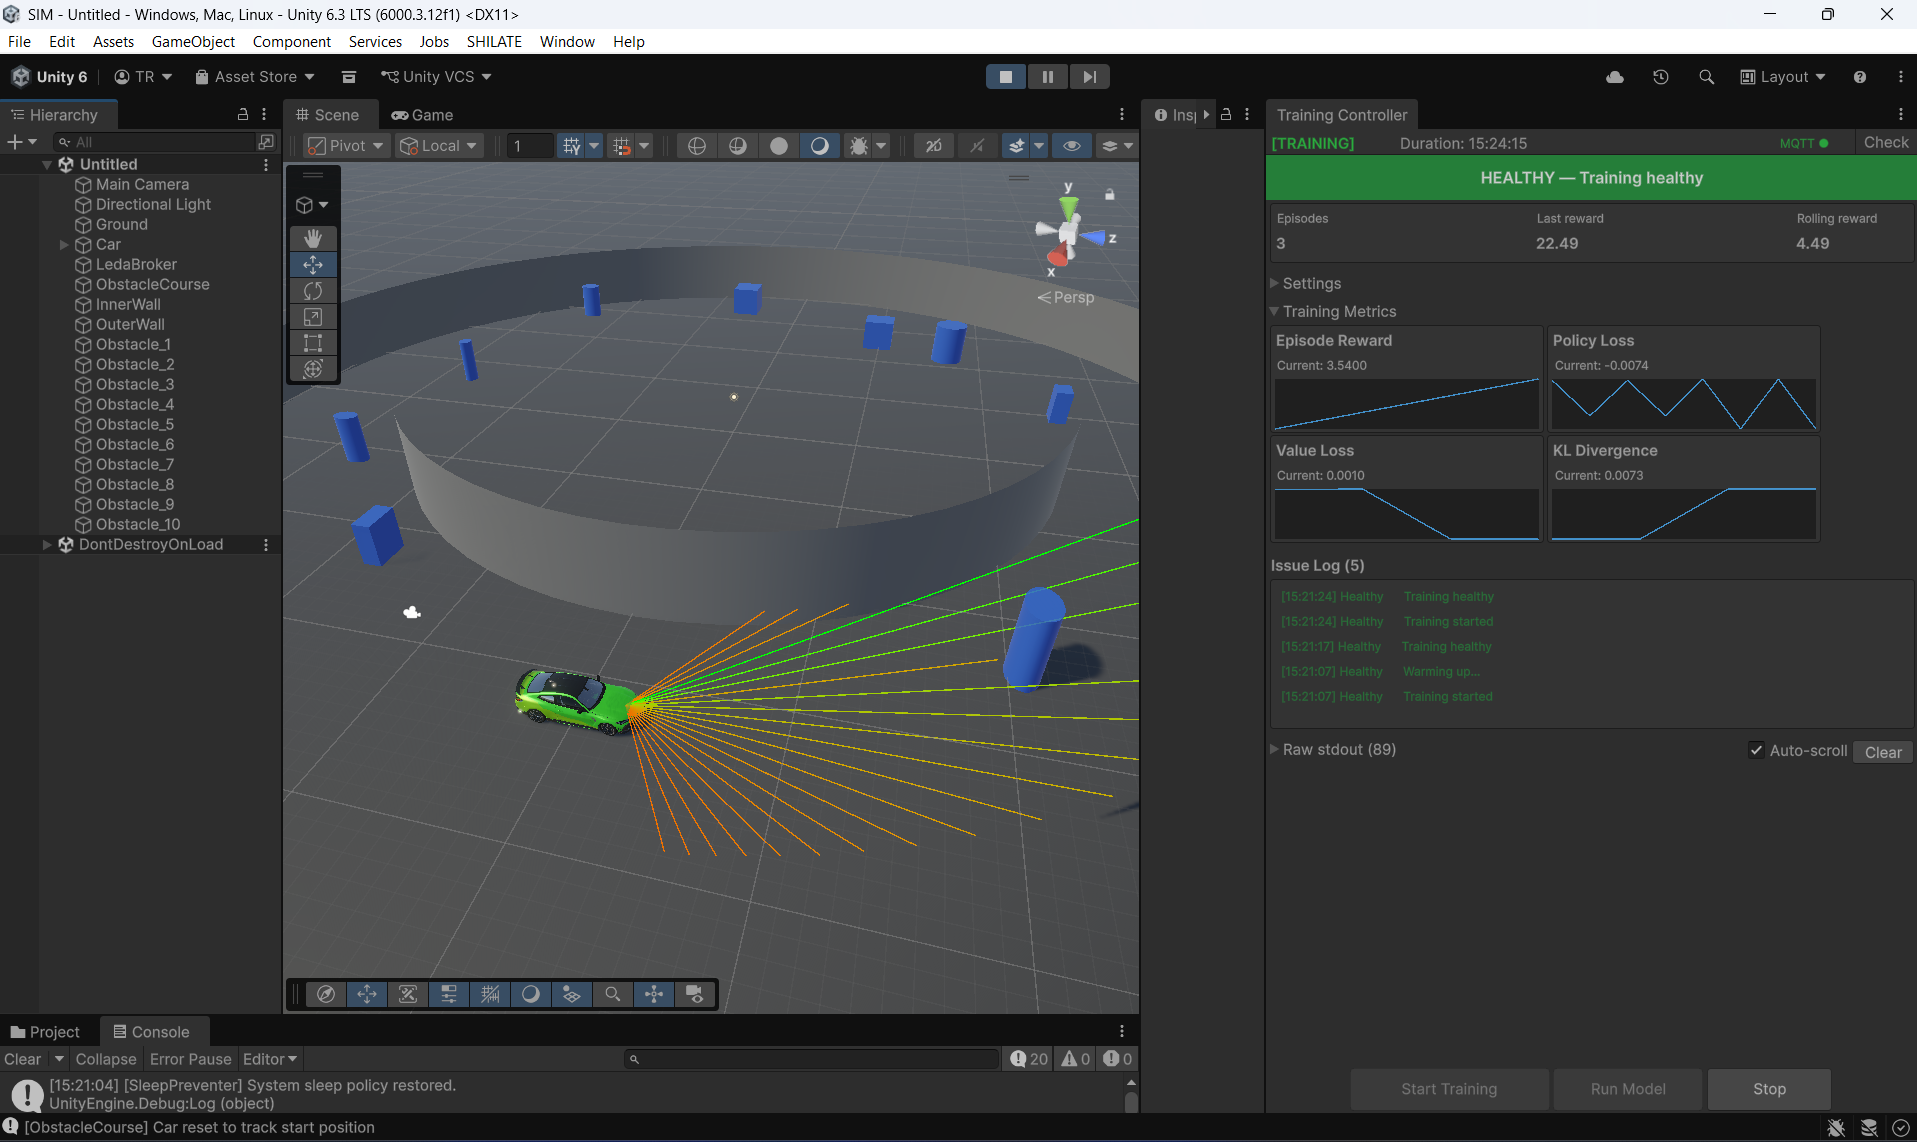
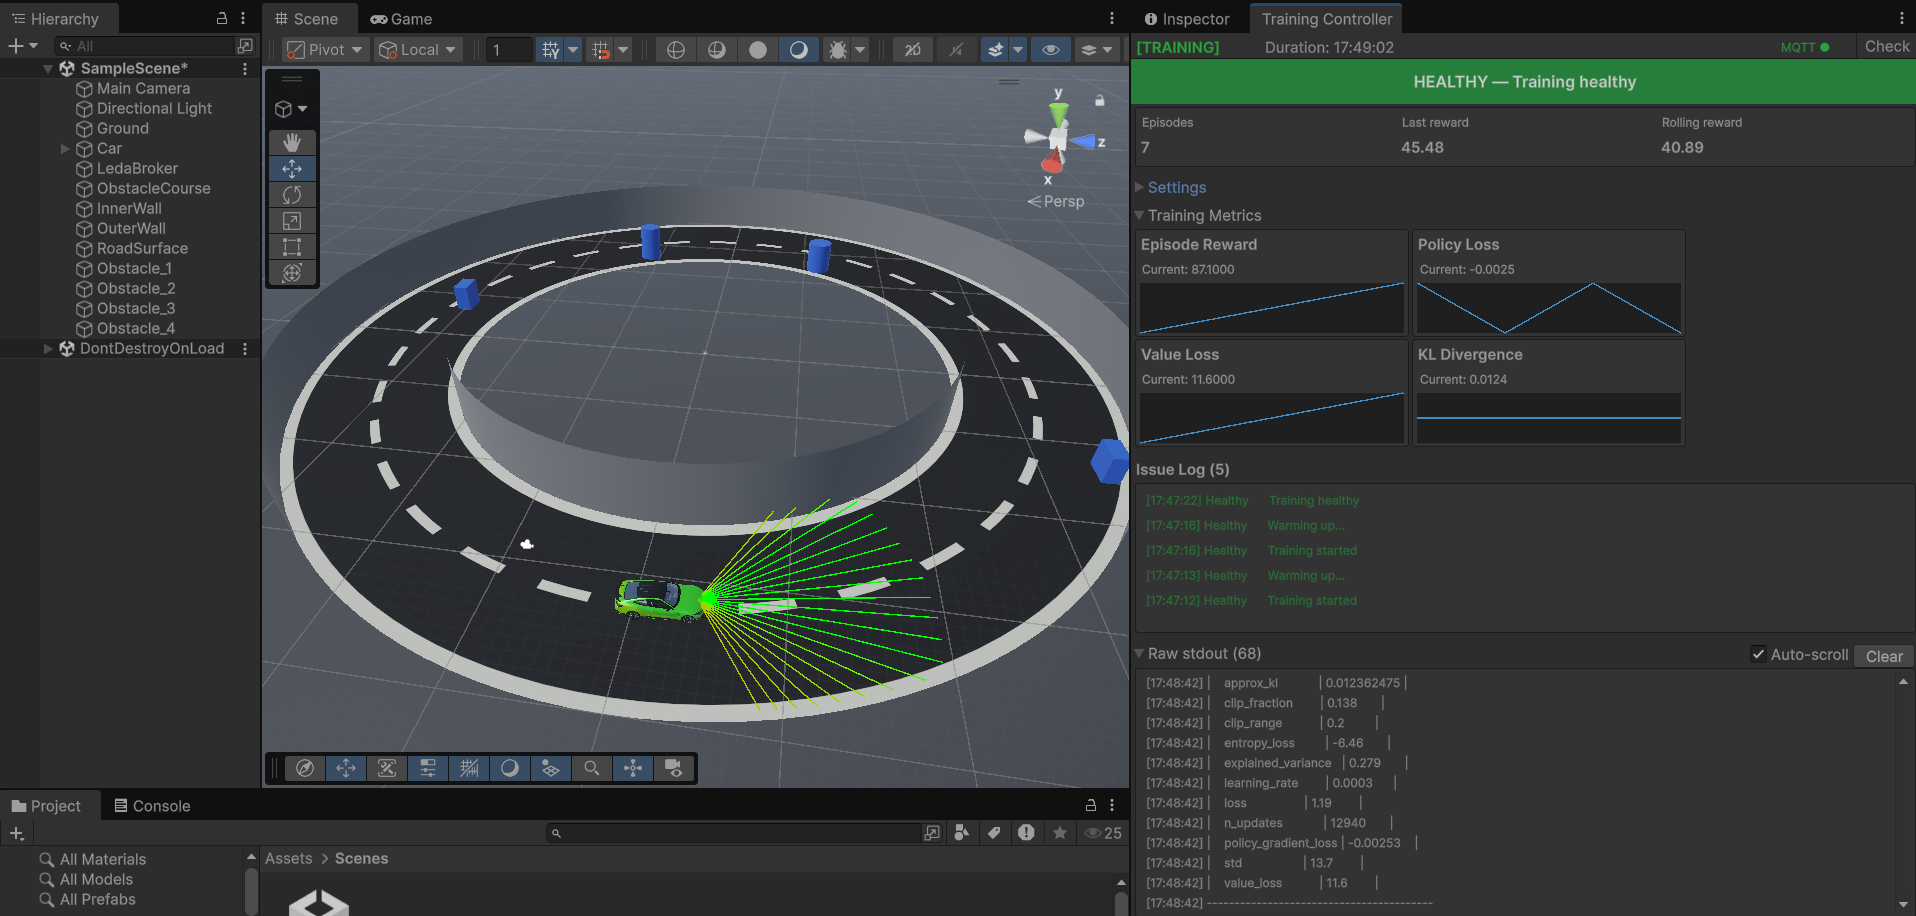
added parallel training view, updated enviroment overview

diff --git a/Documentation/bachelors_en/chapters/7-UnitySim.tex b/Documentation/bachelors_en/chapters/7-UnitySim.tex
@@ -176,3 +176,36 @@ health evaluator monitors five independent failure modes: MQTT
 disconnection, Python process crash, observation gap exceeding 5~seconds,
 heartbeat/reward gap exceeding 60~seconds, and reward collapse (more than
 50\% drop over a 10-episode window).
+
+\section{Multi-Environment Parallel Training}
+\label{sec:headless}
+
+When training throughput beyond the single-editor rate is required, the
+\textit{Headless Orchestrator} window (\texttt{SHILATE} $\to$
+\texttt{Headless Orchestrator}) launches multiple independent Unity
+processes in parallel, each paired with its own Python trainer and using
+a unique MQTT topic prefix so that all environments share a single
+Mosquitto broker without message collisions.
+
+Each environment slot spawns a Unity build instance (with or without
+graphics, controlled by the \texttt{unityWithGraphics} setting),
+a Python \texttt{train.py} process targeting that slot's
+\texttt{MQTT\_HOST} and prefix, and monitors both processes for crashes.
+Up to 30 slots are supported; in practice the limit is CPU and RAM.
+The \texttt{headlessSingleModelMode} flag configures whether all slots
+share one PPO model (data-parallel rollout collection) or train
+independent models simultaneously.
+
+\Cref{fig:multi-env} shows 15 environments running simultaneously with
+graphics enabled, visible in the Windows task switcher alongside the
+Unity Editor and the Mosquitto broker process.
+
+\begin{figure}[H]
+  \centering
+  \includegraphics[width=\textwidth]{images/multiple_enviroment_training.png}
+  \caption{Windows task switcher (Win+Tab) showing 15 parallel SHILATE
+  simulation instances with graphics enabled, the Unity Editor window,
+  and the Mosquitto broker process running simultaneously during a
+  multi-environment training session.}
+  \label{fig:multi-env}
+\end{figure}
